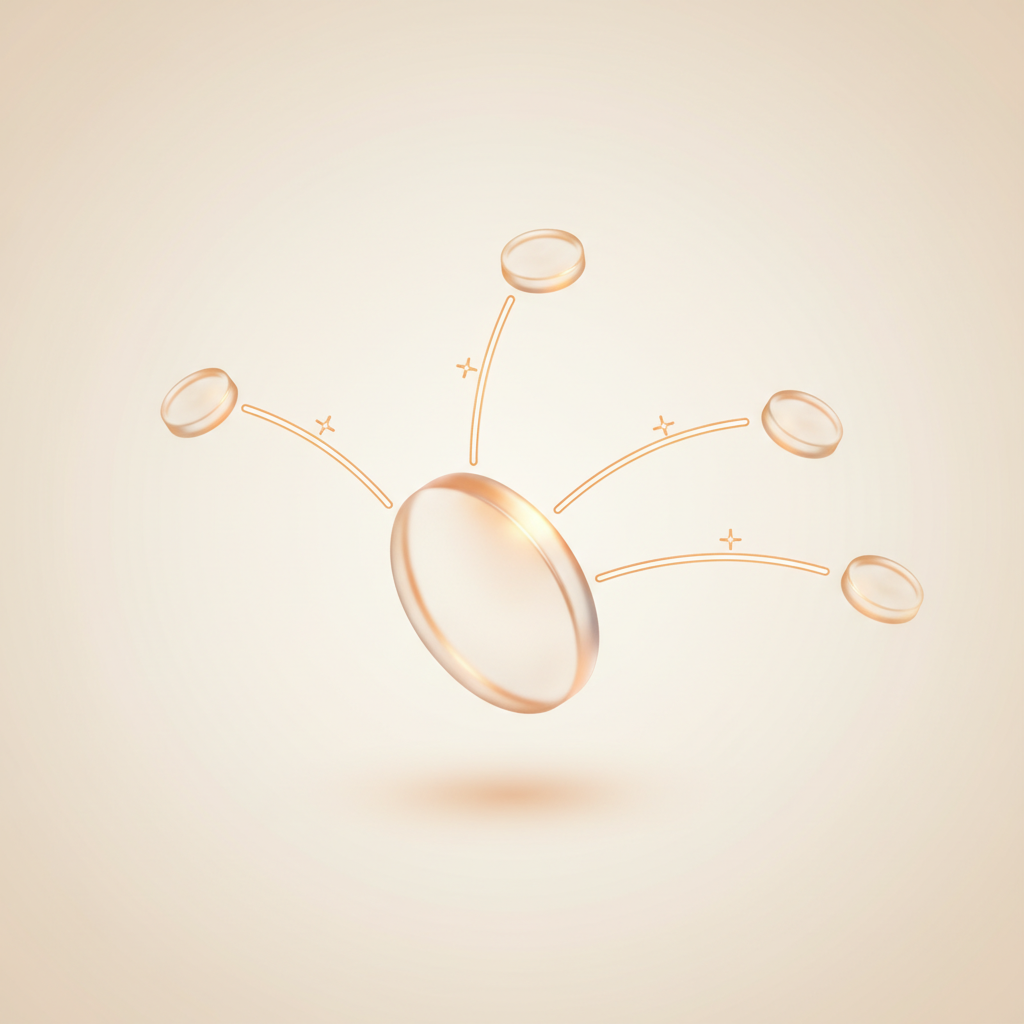
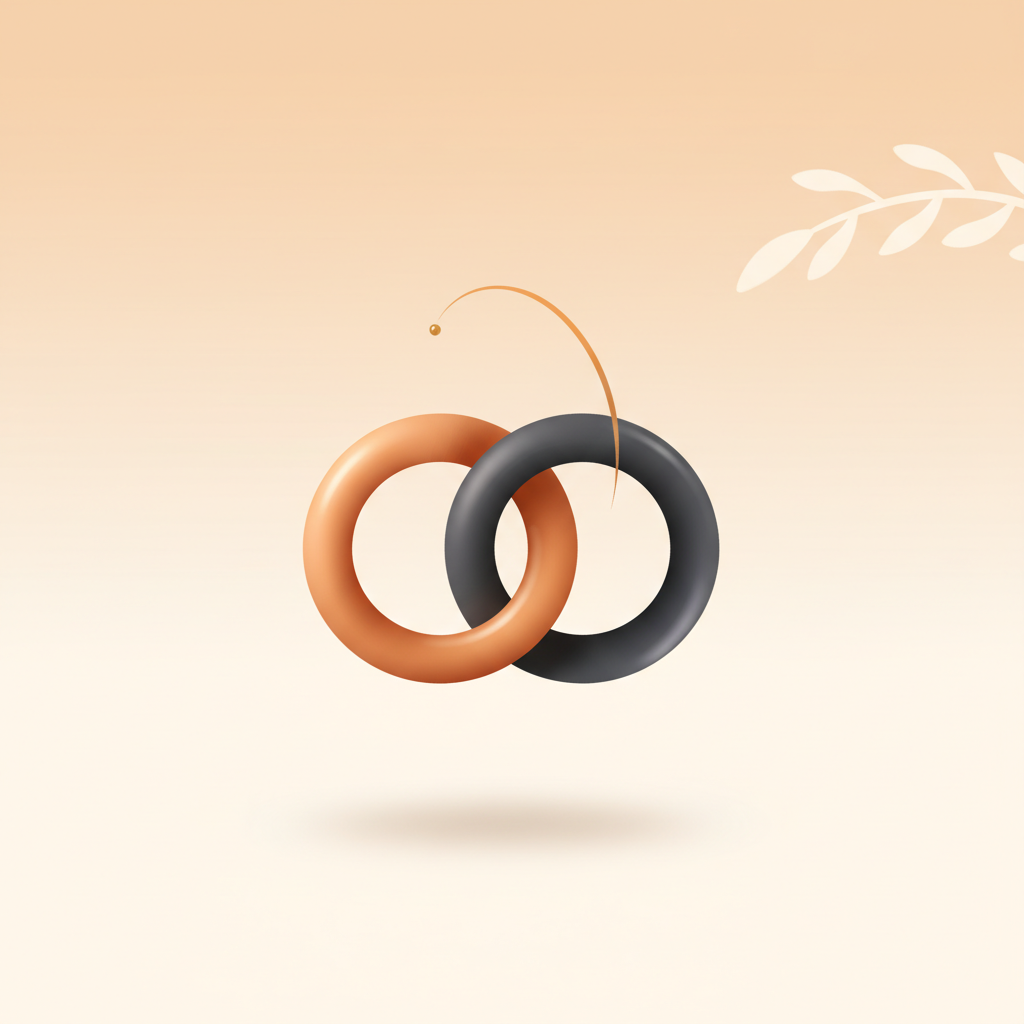
feat(merchant-dashboard): elegant single-subject refer-friends hero
New Gemini prompt: a single 3D pair of interlocking rings (one Claude
orange, one ink) on a calm cream studio backdrop with soft window light
and a tiny golden spark. Premium Apple/jewelry photography aesthetic,
not the busy dark-stage 3D scene. Card image tile bg matches the cream
backdrop so the subject reads as one continuous frame.

diff --git a/blip-protocol-ui/src/pages/Waitlist/MerchantDashboard.tsx b/blip-protocol-ui/src/pages/Waitlist/MerchantDashboard.tsx
@@ -1194,10 +1194,10 @@ export default function MerchantDashboard() {
                 </div>
               </div>
 
-              {/* Right: dark-stage 3D hero illustration */}
-              <div className="hidden md:block relative overflow-hidden bg-[#0a0a0a]">
+              {/* Right: elegant single-subject hero illustration on cream */}
+              <div className="hidden md:block relative overflow-hidden" style={{ background: "#FAF8F5" }}>
                 <img
-                  src="/images/merchant-dashboard-hero.jpg"
+                  src="/illustrations/refer-friends-hero.png?v=6"
                   alt="Refer friends and earn rewards"
                   className="absolute inset-0 w-full h-full object-cover"
                 />